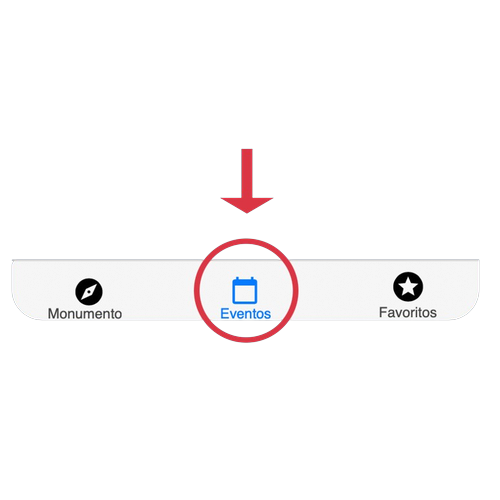
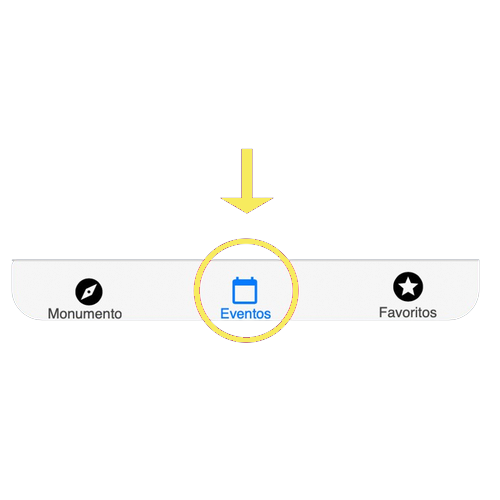
Version MVP - (falta cambiar redirección direcciones)

Changed region(s): [[0.39, 0.48, 0.6, 0.69], [0.45, 0.3, 0.54, 0.42]]

diff --git a/src/app/features/onboarding/pages/onboarding-page/onboarding-page.css b/src/app/features/onboarding/pages/onboarding-page/onboarding-page.css
@@ -6,6 +6,8 @@
   justify-content: flex-start;
   height: 100vh;
   overflow: hidden;
+  background-color: var(--background-color);
+  --onboarding-accent: #f7eb5e;
 }
 
 /*Div título e ilustración*/
@@ -65,7 +67,7 @@
   width: 100%;
   max-width: 320px;
   height: 8px;
-  background: rgba(255, 255, 255, 0.2);
+  background: rgba(47, 158, 68, 0.22);
   border-radius: 999px;
   overflow: hidden;
   margin: 20px 0;
@@ -74,7 +76,7 @@
 
 .progress-fill {
   height: 100%;
-  background: var(--progress-color);
+  background: var(--onboarding-accent);
   width: 0;
   transition: width 200ms ease;
 }
@@ -108,8 +110,8 @@
 }
 
 .next-btn {
-  background-color: var(--progress-color);
-  color: var(--ui-white);
+  background-color: var(--onboarding-accent);
+  color: var(--ui-black);
 }
 
 .prev-btn {

diff --git a/src/app/shared/layout/card-preview/card-preview.css b/src/app/shared/layout/card-preview/card-preview.css
@@ -42,7 +42,8 @@
     padding-top: 5px;
     margin: 4px;
     /*Apariencia*/
-    color: var(--ui-black);
+    color: var(--ui-darker-grey);
+    font-weight: 700;
     font-size: 16px;
     white-space: nowrap;
     overflow: hidden;
